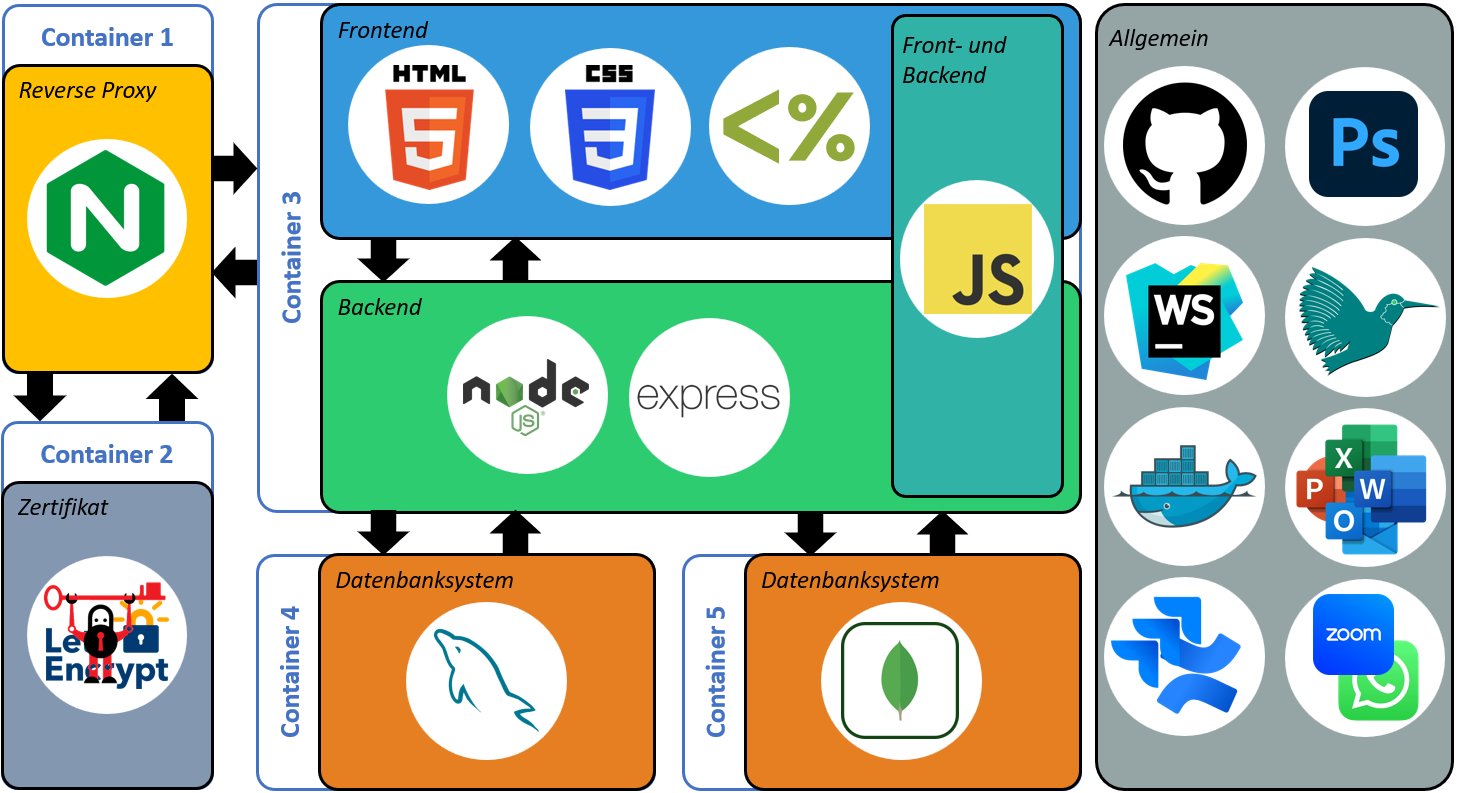
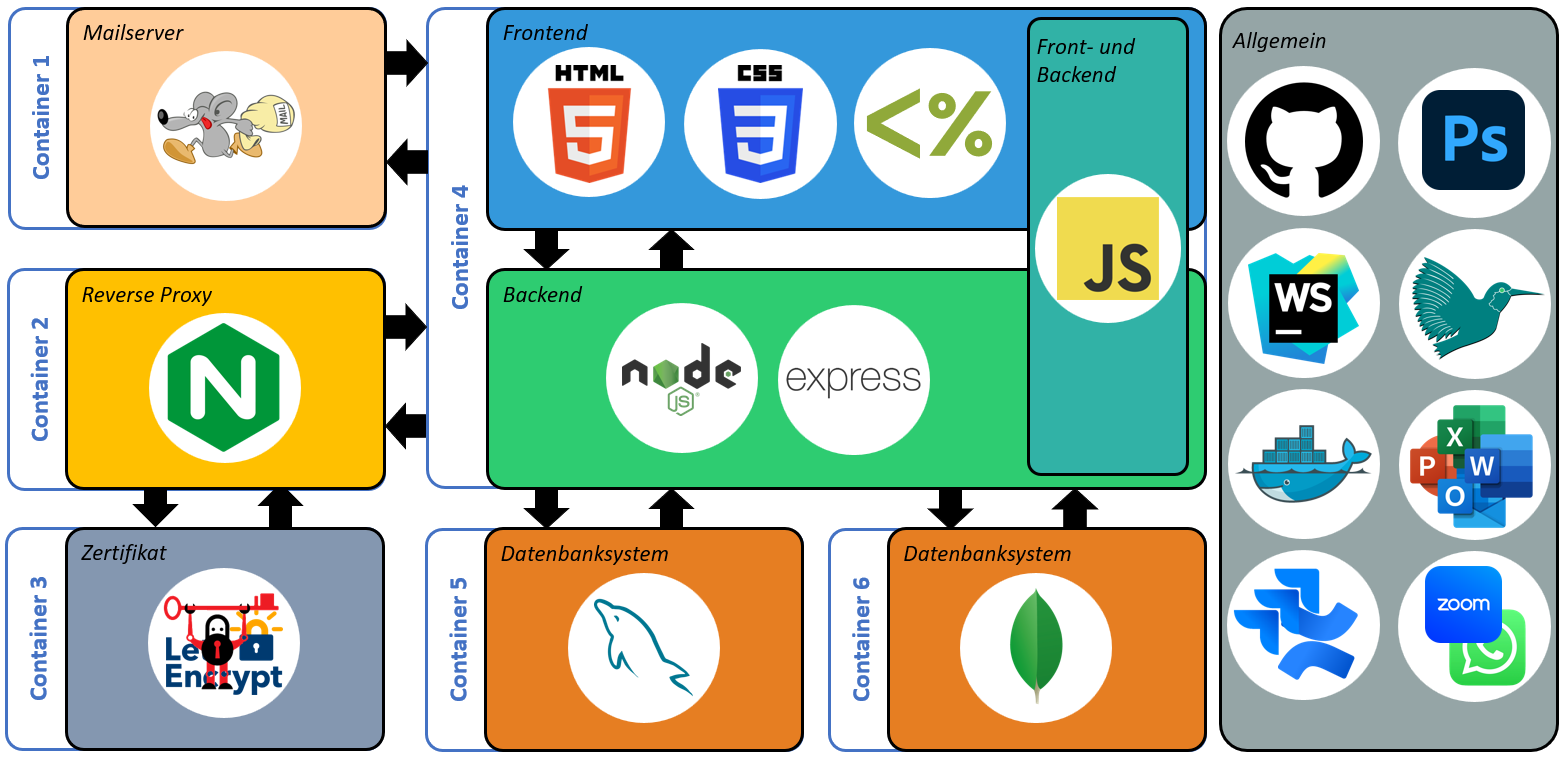
documentation: - vserver part - projectmanagement (organization & tools) - minor changes on title page

diff --git a/docs/pm-iii/sections/07-vserver.tex b/docs/pm-iii/sections/07-vserver.tex
@@ -1,72 +1,208 @@
 \section{vServer}\label{subsec:vserver}
 
-Lorenz ipsum dolor sit amet, consetetur sadipscing elitr, sed diam nonumy eirmod tempor invidunt ut labore et dolore magna aliquyam erat, sed diam voluptua.
-At vero eos et accusam et justo duo dolores et ea rebum.
-Stet clita kasd gubergren, no sea takimata sanctus est Lorenz ipsum dolor sit amet.
+In diesem Kapitel wird auf die Fortentwicklung des vServer eingegangen, auf dem die Collectiqo Sammlungsplattform seit Ende des zweiten Praxismoduls öffentlich zugänglich gemacht wird.
+Neben strukturellen Anpassungen der Bereitstellung enthält dieses Kapitel auch Abschnitte zu den getroffenen Netzwerkanpassungen und der Weiterentwicklung der Docker-Umgebung.
 
-\subsection{SubthemaRobin1}\label{subsubsec:robin1}
+\subsection{Bereitstellung}\label{subsubsec:vserver-bereitstellung}
 
-Lorenz ipsum dolor sit amet, consetetur sadipscing elitr, sed diam nonumy eirmod tempor invidunt ut labore et dolore magna aliquyam erat, sed diam voluptua.
-At vero eos et accusam et justo duo dolores et ea rebum.
-Stet clita kasd gubergren, no sea takimata sanctus est Lorenz ipsum dolor sit amet.
+Die Bereitstellung des vServer enthält Konfiguration zur Außenanbindung wie ein NGINX-Reverse-Proxy und Zertifikatsverwaltung mittels Certbot, was für die lokale Instanz nicht notwendig und störend ist.
+Im Zuge der neuen Arbeitsweise mit git-Branches wurde die Struktur der Bereitstellung im Repository angepasst.
+Die aktive Fortentwicklung des vServers erfolgt nun über einen separaten Branch \textit{deployment}, hier werden alle Änderungen vorgenommen und getestet, die für die Bereitstellung auf dem vServer notwendig sind.
+Sowohl im main-Branch als auch im deployment-Branch wurde die Struktur der Bereitstellung angepasst, um eine klare Trennung zwischen der lokalen Entwicklung und der Bereitstellung auf dem vServer zu ermöglichen.
+Für eine lokale Ausführung der Anwendung wurde ein separater Ordner \textit{deploy/local} angelegt, der die notwendige docker-compose.yaml für die lokale Entwicklung enthält.
+Die Bereitstellung auf dem vServer erfolgt über den Ordner \textit{deploy/vServer}, hier enthalten ist die Docker-Compose-Datei inklusive Reverse-Proxy und Certbot-Zertifikatsverwaltung.
 
-\subsection{SubthemaRobin2}\label{subsubsec:robin2}
+\subsection{Netzwerkanpassungen}\label{subsubsec:vserver-netzwerk}
 
-Lorenz ipsum dolor sit amet, consetetur sadipscing elitr, sed diam nonumy eirmod tempor invidunt ut labore et dolore magna aliquyam erat, sed diam voluptua.
-At vero eos et accusam et justo duo dolores et ea rebum.
-Stet clita kasd gubergren, no sea takimata sanctus est Lorenz ipsum dolor sit amet.
+Die Netzwerkanpassungen am vServer sind ein wichtiger Bestandteil des sicheren Betriebs der Collectiqo-Plattform.
+Im Folgenden wird auf die Netzwerkseparierung, die automatische Zertifikatserneuerung und das Aktivieren von IPv6 eingegangen.
 
-\subsection{SubthemaRobin3}\label{subsubsec:robin3}
+\subsubsection{Netzwerkseparierung}\label{subsubsec:vserver-netzwerk-separation}
 
-Lorenz ipsum dolor sit amet, consetetur sadipscing elitr, sed diam nonumy eirmod tempor invidunt ut labore et dolore magna aliquyam erat, sed diam voluptua.
-At vero eos et accusam et justo duo dolores et ea rebum.
-Stet clita kasd gubergren, no sea takimata sanctus est Lorenz ipsum dolor sit amet.
+Am Ende des zweiten Praxismoduls stellte sich mittels der Überprüfung der offenen Ports (Portscanning) des vServers heraus, dass mehr Ports offen waren als notwendig beziehungsweise gewünscht.
+Neben den Ports 80 und 443 (http- und https-Übertragungsprotokoll), die für den NGINX-Reverse-Proxy genutzt werden, waren auch die Ports der Datenbank-Container (MySQL und MongoDB) offen erreichbar.
+Dies stellt ein Sicherheitsrisiko dar, da unbefugte Zugriffe auf die Datenbanken möglich wären.
+Die Datenbanken sollten nur über den Docker-Container, der das Front- und Backend der Collectiqo-Plattform bereitstellt, und nicht direkt über das Internet erreichbar sein.
+Die Netzwerkanpassungen beinhalten die Trennung zwischen öffentlichem und privatem Netzwerk, um die Sicherheit des vServers zu erhöhen.
 
-Die Konfiguration des Nginx-Revers-Proxys erfolgte in der Datei \textit{nginx/nginx.conf} und sieht wie folgt aus:
+Es wurde ein öffentliches Netzwerk \textit{public-network} und ein privates Netzwerk \textit{private-network} in der Docker-Compose-Datei definiert.
+Das \textit{public-network} ist ein Standard-Bridge-Netzwerk, das für die Kommunikation zwischen Containern und nach außen genutzt wird.
+Das \textit{private-network} ist ebenfalls ein Bridge-Netzwerk, aber mit der Option \textit{"internal: true"}, wodurch der Zugriff von außen blockiert wird und nur interne Container-Kommunikation möglich ist.
+So werden Dienste voneinander und vom externen Netzwerk gezielt abgeschottet.
+
+Die node.js-Anwendung, die das Front- und Backend der Collectiqo-Plattform bereitstellt, ist im privaten Netzwerk angebunden, ebenso die Datenbank-Container (MySQL und MongoDB).
+Der NGINX-Reverse-Proxy ist sowohl im öffentlichen Netzwerk als auch im privaten Netzwerk angebunden um Anfragen aus dem Internet entgegenzunehmen und an die node.js-Anwendung weiterzuleiten.
+Der Certbot-Container ist rein im öffentlichen Netzwerk angebunden, da er nur für die Zertifikatsverwaltung zuständig ist und keine direkte Kommunikation mit der node.js-Anwendung benötigt.
+Der Container läuft nur temporär, wenn ein neues Zertifikat ausgestellt oder ein bestehendes Zertifikat erneuert werden muss.
+
+
+\subsubsection{Zertifikatserneuerung \& IPv6}\label{subsubsec:vserver-zertifikat-ipv6}
+
+SSL-Zertifikate von Let's Encrypt haben eine Gültigkeit von 90 Tagen und müssen regelmäßig erneuert werden.
+Die automatische Erneuerung der Zertifikate erfolgt mithilfe des Certbot-Containers, der in der Docker-Compose-Datei konfiguriert ist.
+Es wurde ein CronJob eingerichtet, der jeden Sonntag gegen 8 Uhr morgens den Certbot-Container startet, um die Zertifikate zu erneuern.
+Die Ausführung des Containers erfolgt mit dem Befehl \textit{docker compose --env-file .env.docker run --rm certbot renew --force-renewal}.
+Der Befehlsparameter \textit{--force-renewal} sorgt dafür, dass die Zertifikate auch dann erneuert werden, wenn sie noch gültig sind.
+Damit wird eine kontinuierliche Verfügbarkeit der SSL-Zertifikate sichergestellt, ohne dass manuelle Eingriffe erforderlich sind.
+Die Rate-Limits von Let'S Encrypt erlauben fünf Zertifikatserneuerungen pro Woche, was ausreichend ist, um die automatische Erneuerung zu gewährleisten.
+Der CronJob wurde so konfiguriert, dass ebenfalls eine E-Mail-Benachrichtigung an den Administrator gesendet wird.
+Sollte die Erneuerung fehlschlagen, wird dies also rechtzeitig bemerkt und kann behoben werden.
+
+Bislang war die Collectiqo-Plattform nur über IPv4-Adressen erreichbar.
+Die Unterstützung für IPv6 wurde nun aktiviert, um die Erreichbarkeit der Plattform über das Internet zu verbessern und die Nutzung von IPv6-Adressen zu ermöglichen.
+Hierzu wurde beim Provider ein AAAA-Record für die Domain collectiqo.de und collectiqo.com eingerichtet, der auf die IPv6-Adresse des vServers verweist.
+Die Konfiguration des NGINX-Reverse-Proxys wurde entsprechend in der nginx.conf angepasst, um Anfragen über IPv6 zu unterstützen.
+Diese wurde so erweitert, dass sie sowohl IPv4- als auch IPv6-Anfragen über beide Protokolle (http und https), also über die Ports 80 und 443, entgegennehmen kann.
+
+Die Konfiguration des Nginx-Revers-Proxys basierend der Datei \textit{nginx/nginx.conf} sieht an den besagten Stellen (gekürzte Darstellung) wie folgt aus:
 \vspace{1em}
 \begin{lstlisting}[label={lst:lst-nginx-config}]
-events {
-    worker_connections  1024;
-}
-
-http {
-    server_tokens off;
-    charset utf-8;
     server {
-        listen 80 default_server;
+        listen 80 default_server; #IPv4 HTTP
+        listen [::]:80 default_server; #IPv6 HTTP
         server_name collectiqo.de www.collectiqo.de collectiqo.com www.collectiqo.com;
-
-        location ~ /.well-known/acme-challenge/ {
-            root /var/www/certbot;
-        }
-
-        location / {
-            return 301 https://collectiqo.com$request_uri;
-        }
     }
+
     server {
-        listen 443 ssl;
+        listen 443 ssl; #IPv4 HTTPS
+        listen [::]:443 ssl; #IPv6 HTTPS
         server_name collectiqo.de www.collectiqo.de collectiqo.com www.collectiqo.com;
-
-        ssl_certificate /etc/letsencrypt/live/collectiqo.com/fullchain.pem;
-        ssl_certificate_key /etc/letsencrypt/live/collectiqo.com/privkey.pem;
-
-        location ~ /.well-known/acme-challenge/ {
-            root /var/www/certbot;
-        }
-        location / {
-            #proxy_pass http://test-webserver;
-            proxy_pass https://collectiqo-web-1:3000;
-            proxy_http_version 1.1;
-            proxy_set_header Host $host;
-            proxy_set_header Upgrade $http_upgrade;
-            proxy_set_header Connection 'upgrade';
-            proxy_set_header X-Real-IP $remote_addr;
-            proxy_set_header X-Forwarded-For $proxy_add_x_forwarded_for;
-            proxy_set_header X-Forwarded-Proto $scheme;
-            proxy_cache_bypass $http_upgrade;
-        }
     }
-}
 \end{lstlisting}
 \vspace{1em}
+
+\subsection{Weiterentwicklung Docker}\label{subsubsec:vserver-docker}
+
+Healthchecks in Docker Compose (delayed start for node.js ehen DBs are ready and healthy)
+Die Docker-Umgebung wurde weiterentwickelt, um die Stabilität und Zuverlässigkeit der Collectiqo-Plattform zu verbessern.
+Die wichtigste Änderungen war die Implementierung von Healthchecks für die Docker-Container.
+Zusätzlich wurde ein automatischer Start und Shutdown der Container in Abhängigkeit vom Host-System implementiert und eine E-Mail-Funktion für Benachrichtigungen hinzugefügt.
+
+\subsubsection{Healthchecks}\label{subsubsec:vserver-docker-healthchecks}
+
+Im Nachgang an die Abgabe des zweiten Praxismoduls wurde bemerkt, dass die node.js-Anwendung nicht immer ordnungsgemäß funktionierte.
+Nach Sichtung der Logs stellte sich heraus, dass die Anwendung manchmal startete, bevor die Datenbank-Container (MySQL und MongoDB) bereit waren.
+Dies führte dazu, dass die node.js-Anwendung nicht auf die Datenbanken zugreifen konnte und somit beispielsweise kein Login möglich war, welcher von der MySQL-Datenbank abhängig ist.
+Manuelle Tests zeigten im Anschluss, dass die node.js-Anwendung ordnungsgemäß funktionierte, wenn die Datenbanken mit 30 Sekunden Vorlauf gestartet wurden.
+Eine dauerhafte Lösung für dieses Problem, möglichst automatisiert, wurde gesucht.
+Die Lösung bestand darin, Healthchecks für die Docker-Container zu implementieren.
+Die Healthchecks ermöglichen es, den Zustand der Container zu überwachen und sicherzustellen, dass sie ordnungsgemäß basierend auf einer hinterlegten Testfunktion funktionieren.
+
+Es wurden entsprechende Healthchecks für beide Datenbank-Container (MySQL und MongoDB) sowie für die node.js-Anwendung und den NGINX-Reverse-Proxy in der Docker-Compose-Datei \textit{docker-compose.yaml} (gekürzte Darstellung) definiert:
+implementiert.
+\vspace{1em}
+\begin{lstlisting}[label={lst:lst-dockercompose-config1}]
+services:
+  mysql:
+    image: lorackdev/clq-mysql-multiarch
+    restart: always
+    healthcheck:
+      test: ["CMD-SHELL", "mysqladmin ping -h localhost -u root -p${MYSQL_DATABASE_PASSWORD}"]
+      start_interval: 30s
+      start_period: 45s
+      interval: 10s
+      timeout: 5s
+      retries: 5
+
+  mongodb:
+    image: mongo:latest
+    restart: always
+    healthcheck:
+      test: ["CMD-SHELL", "mongosh --host localhost --port 27017 -u ${MONGO_DATABASE_USER} -p ${MONGO_DATABASE_PASSWORD} --eval 'db.runCommand(\"ping\").ok' --quiet"]
+
+  web:
+    image: clq-app
+    restart: always
+    healthcheck:
+      test: ["CMD-SHELL", "ps aux | grep node | grep -v grep || exit 1"]
+    depends_on:
+      mysql:
+        condition: service_healthy
+      mongodb:
+        condition: service_healthy
+
+  nginx-reverse-proxy:
+    image: nginx:latest
+    restart: unless-stopped
+    healthcheck:
+      test: ["CMD-SHELL", "curl -sf http://localhost/health || exit 1"]
+    depends_on:
+      web:
+        condition: service_healthy
+\end{lstlisting}
+\vspace{1em}
+
+Dabei wird bei der \textbf{MySQL} Datenbank mit dem Befehl \textit{mysqladmin ping} geprüft, ob der MySQL-Server auf localhost mit dem Benutzer root und dem Passwort aus der Umgebungsvariable MYSQL\_DATABASE\_PASSWORD erreichbar ist.
+Liefert der Befehl keine erfolgreiche Antwort, gilt der Container als nicht gesund.
+
+Für die \textbf{MongoDB} Datenbank wird mit dem Befehl \textit{mongosh} abgefragt, ob eine Verbindung zur lokalen MongoDB-Instanz auf Port 27017 möglich ist und ob der Datenbankbefehl \textit{db.runCommand("ping").ok} erfolgreich ausgeführt werden kann.
+Ist das der Fall, gilt der Container als „healthy“, andernfalls wird ein Fehlerstatus zurückgegeben.
+Die Zugangsdaten werden dabei ebenfalls aus den Umgebungsvariablen entnommen.
+
+Ob ein \textbf{Node.js}-Prozess im Container läuft wird mit dem Kommando \textit{ps aux | grep node | grep -v grep || exit 1} überprüft.
+Wird keiner gefunden, liefert der Healthcheck einen Fehlerstatus zurück.
+So erkennt Docker, ob der Service noch funktionsfähig ist.
+
+Für den \textbf{NGINX} Container wird per curl erprobt, ob der HTTP-Endpunkt http://localhost/health erreichbar ist.
+Schlägt der Aufruf fehl, liefert der Healthcheck einen Fehlerstatus zurück.
+So kann Docker erkennen, ob der NGINX-Container ordnungsgemäß läuft.
+
+Die Healthchecks in Docker Compose ermöglichen es, den Zustand der Container zu überwachen und sicherzustellen, dass sie ordnungsgemäß funktionieren.
+Dabei kommen verschiedene Parameter zum Einsatz, welche bei allen Container gleich gewählt wurden.
+\begin{itemize}
+    \item start\_interval: Zeit zwischen den ersten Healthcheck-Versuchen nach Containerstart.
+    \item start\_period: Zeitraum nach Start, in dem Fehler beim Healthcheck ignoriert werden (Wartezeit bis zur ersten Bewertung).
+    \item interval: Zeit zwischen den einzelnen Healthcheck-Versuchen im Normalbetrieb.
+    \item timeout: Maximale Zeit, die ein Healthcheck-Befehl laufen darf, bevor er als fehlgeschlagen gilt.
+    \item retries: Anzahl der erlaubten Fehlschläge, bevor der Container als „unhealthy“ markiert wird.
+\end{itemize}
+
+Mit der Option \textit{depends\_on} wird sichergestellt, dass die node.js-Anwendung erst gestartet wird, wenn beide Datenbank-Container als „healthy“ markiert sind.
+NGINX wiederum startet erst, wenn die node.js-Anwendung als „healthy“ markiert ist.
+Da Certbot ebenfalls eine Abhängigkeit zum NGINX-Reverse-Proxy hat, wird dieser ebenfalls erst gestartet, wenn der NGINX-Container als „healthy“ markiert ist.
+Somit erfolgt eine verzögerte Startreihenfolge der Container, die sicherstellt, dass die Container in der richtigen Reihenfolge und Abhängigkeiten gestartet werden.
+
+\subsubsection{Automatischer Start und Shutdown}\label{subsubsec:vserver-docker-auto-start}
+
+Eine weitere Verbesserung der Docker-Umgebung ist die Implementierung eines automatischen Starts und Shutdowns der Container in Abhängigkeit vom Host-System.
+Nach einem Neustart des Host-Systems war auffällig geworden, dass grade der NGINX-Reverse-Proxy in einem Restart-Zustand hängen blieb und nicht ordnungsgemäß startete.
+Es wurde ein Systemd-Service  namens \textit{docker-compose-app.service} unter \textit{/etc/systemd/system/} erstellt, der die Docker-Container beim Hochfahren des Host-Systems automatisch startet und beim Herunterfahren des Host-Systems automatisch stoppt.
+Die Systemd-Service-Datei sieht wie folgt aus:
+\vspace{1em}
+\begin{lstlisting}[label={lst:lst-systemd-service}]
+[Unit]
+Description=Docker Compose Application
+Requires=docker.service
+After=docker.service
+
+[Service]
+Type=oneshot
+RemainAfterExit=yes
+WorkingDirectory=/home/collectiqo/git/collectiqo/deploy/vServer
+ExecStart=/usr/bin/docker compose --env-file .env.docker up -d
+ExecStop=/usr/bin/docker compose --env-file .env.docker down --timeout 15
+TimeoutStopSec=90
+KillMode=process
+
+[Install]
+WantedBy=multi-user.target
+\end{lstlisting}
+\vspace{1em}
+
+Innerhalb der Service-Datei wird das WorkingDirectory auf den Ordner gesetzt, in dem sich die Docker-Compose-Datei samt env-Datei befindet.
+Die Befehle \textit{ExecStart} und \textit{ExecStop} starten und stoppen die Docker-Container in Kombination mit dem Host-System.
+Ein \textit{TimeoutStopSec} von 90 Sekunden wurde gesetzt, um sicherzustellen, dass die Container genügend Zeit haben, um ordnungsgemäß herunterzufahren, bevor der Host-Computer heruntergefahren wird.
+Die Option \textit{RemainAfterExit=yes} sorgt dafür, dass der Service als aktiv bleibt, auch wenn die Docker-Container gestoppt wurden.
+Die Systemd-Service-Datei wurde abschließend aktiviert, sodass sie beim Booten des Host-Systems automatisch gestartet wird.
+
+
+\subsubsection{E-Mail-Funktion}\label{subsubsec:vserver-docker-email}
+
+In diesem Praxismodul wurde ein weiterer Container hinzugefügt, der eine Funktionalität für E-Mail bereitstellt.
+Dieser Container fungiert als SendOnly-SMTP Mail Transport Agent (MTA) und ermöglicht es, E-Mails rein zu versenden, der Empfang von E-Mails ist bewusst nicht vorgesehen.
+Der E-Mail-Container ist in der Docker-Compose-Datei \textit{docker-compose.yaml} definiert und nutzt das Image \textit{boky/postfix}, welches einen leichtgewichtigen Postfix-Mailserver bereitstellt.
+
+Wie der NGINX-Reverse-Proxy ist der Mail-Container sowohl im öffentlichen Netzwerk als auch im privaten Netzwerk angebunden, andere Container beziehungsweise das Host-System können somit über den definierten Port 2525 E-Mails versenden.
+Er stellt die Grundlage für eine mögliche Implementierung von E-Mail-Funktionen in der Collectiqo-Plattform dar, beispielsweise um ein Passwort-Zurücksetzung oder eine Authentifizierung über einen zweiten Faktor zu ermöglichen.
+
+

diff --git a/docs/pm-iii/sections/02-projektplanung-management.tex b/docs/pm-iii/sections/02-projektplanung-management.tex
@@ -1,8 +1,8 @@
 \section{Projektplanung- und Management}\label{sec:section-one}
 
-Lorenz ipsum dolor sit amet, consetetur sadipscing elitr, sed diam nonumy eirmod tempor invidunt ut labore et dolore magna aliquyam erat, sed diam voluptua.
-At vero eos et accusam et justo duo dolores et ea rebum.
-Stet clita kasd gubergren, no sea takimata sanctus est Lorenz ipsum dolor sit amet.
+In diesem Kapitel wird zu Beginn der bisherige Stand aus den ersten beiden Praxismodulen zusammengefasst.
+Der zweite Abschnitt behandelt die Zielsetzung dieses dritten Praxismoduls, gefolgt von der aktuellen Projektorganisation.
+Abschließend wird ein Überblick über die verwendeten Tools in diesem Praxismodul gewehrt sowie auf die neue gezielte Arbeitsweise mit verschiedenen git-branches eingegangen.
 
 \subsection{Rückblick auf Praxismodul I \& 2}\label{subsec:subsection-one-one}
 
@@ -21,15 +21,28 @@ Stet clita kasd gubergren, no sea takimata sanctus est Lorenz ipsum dolor sit am
 
 \subsection{Projektorganisationen}\label{subsec:subsection-one-three}
 
-Lorenz ipsum dolor sit amet, consetetur sadipscing elitr, sed diam nonumy eirmod tempor invidunt ut labore et dolore magna aliquyam erat, sed diam voluptua.
-At vero eos et accusam et justo duo dolores et ea rebum.
-Stet clita kasd gubergren, no sea takimata sanctus est Lorenz ipsum dolor sit amet.
+Das Team besteht unverändert aus den vier Studierenden Anika, Darko, Lorenz und Robin.
+Projektbetreuer ist dankenswerterweise weiterhin Herr Prof.\, Dr.\, Dirk Schweim.
+Die Rollen- und Aufgabenverteilung innerhalb des Teams hat sich nach den Erfahrungen und Aufbau von entsprechendem Know-How aus den beiden vorherigen Praxismodulen inzwischen gefestigt.
+Die Organisation und Übersicht der einzelnen Aufgaben wird weiterhin mit einem Projektmanagementprogramm gesteuert, wöchentliche Meetings dienen der Abstimmung und dem Austausch.
+
+Anika und Darko sind für die grafische und technische Frontendentwicklung zuständig, wobei Anika sich auf die grafische Entwicklung basierend auf dem Design konzentriert und Darko die technische Umsetzung in JavaScript übernimmt.
+Für die Backend-Entwicklung ist Lorenz zuständig, durch umfangreiche Berührungspunkte mit den Datenbanken übernimmt er ebenfalls deren funktionelle Integration mit dem System.
+Zudem ist er direkter Ansprechpartner für Konflikte und Fragen bezüglich git-Branches und der damit verbundenen Arbeitsweise.
+Durch seine intensive Einarbeitung in Docker ist Robin für die Containerisierung mit Docker zuständig, zudem ist er für den virtuellen Server und das Deployment der Plattform auf diesem zuständig.
+Des Weiteren übernimmt er den Lead für die Dokumentation sowie Präsentation.
 
 \subsection{Verwendete Tools}\label{subsec:subsection-one-four}
 
-Lorenz ipsum dolor sit amet, consetetur sadipscing elitr, sed diam nonumy eirmod tempor invidunt ut labore et dolore magna aliquyam erat, sed diam voluptua.
-At vero eos et accusam et justo duo dolores et ea rebum.
-Stet clita kasd gubergren, no sea takimata sanctus est Lorenz ipsum dolor sit amet.
+Bis auf eine Ausnahme sind die im Projekt verwendeten Tools unverändert geblieben.
+Es hat sich gezeigt, dass die im Praxismodul I und II genutzten Tools für die Projektarbeit gut geeignet sind und keine größeren Änderungen notwendig sind.
+Der Abschnitt \textit{Verwendete Tools} aus dem Praxismodul I und II wird daher nicht erneut vollständig wiederholt, es wird lediglich auf die Änderungen eingegangen.
+
+Es kam ein neuer Docker-Container hinzu, der als Mailserver fungiert.
+Postfix wurde als Mail Transport Agent (MTA) ausgewählt, um E-Mails zu versenden.
+Beabsichtigt wird dieser, um der Plattform eine E-Mail-Funktionalität zu ermöglichen, insbesondere für die Account-Verifizierung und Passwort-Wiederherstellung.
+
+Nachfolgend wird eine Übersicht der verwendeten Tools als Grafik gegeben, die im Praxismodul III zum Einsatz kommen.
 
 \begin{figure}[H]
     \centering

diff --git a/docs/pm-iii/sections/00-titelseite.tex b/docs/pm-iii/sections/00-titelseite.tex
@@ -7,13 +7,14 @@
 
     \textbf{\LARGE Praxismodul III}\\
     \vspace{0.5cm}
+    \textbf{\Large Sammlungsplattform}\\
     \textbf{\Large Collectiqo}\\
     \vspace{1.5cm}
 
     \textbf{Hochschule Mainz}\\
     \vspace{0.5cm}
     Fachbereich Wirtschaft\\
-    \vspace{0.5cm}
+    %\vspace{0.5cm}
     B.Sc. Wirtschaftsinformatik dual\\
     \vspace{1.5cm}
 
